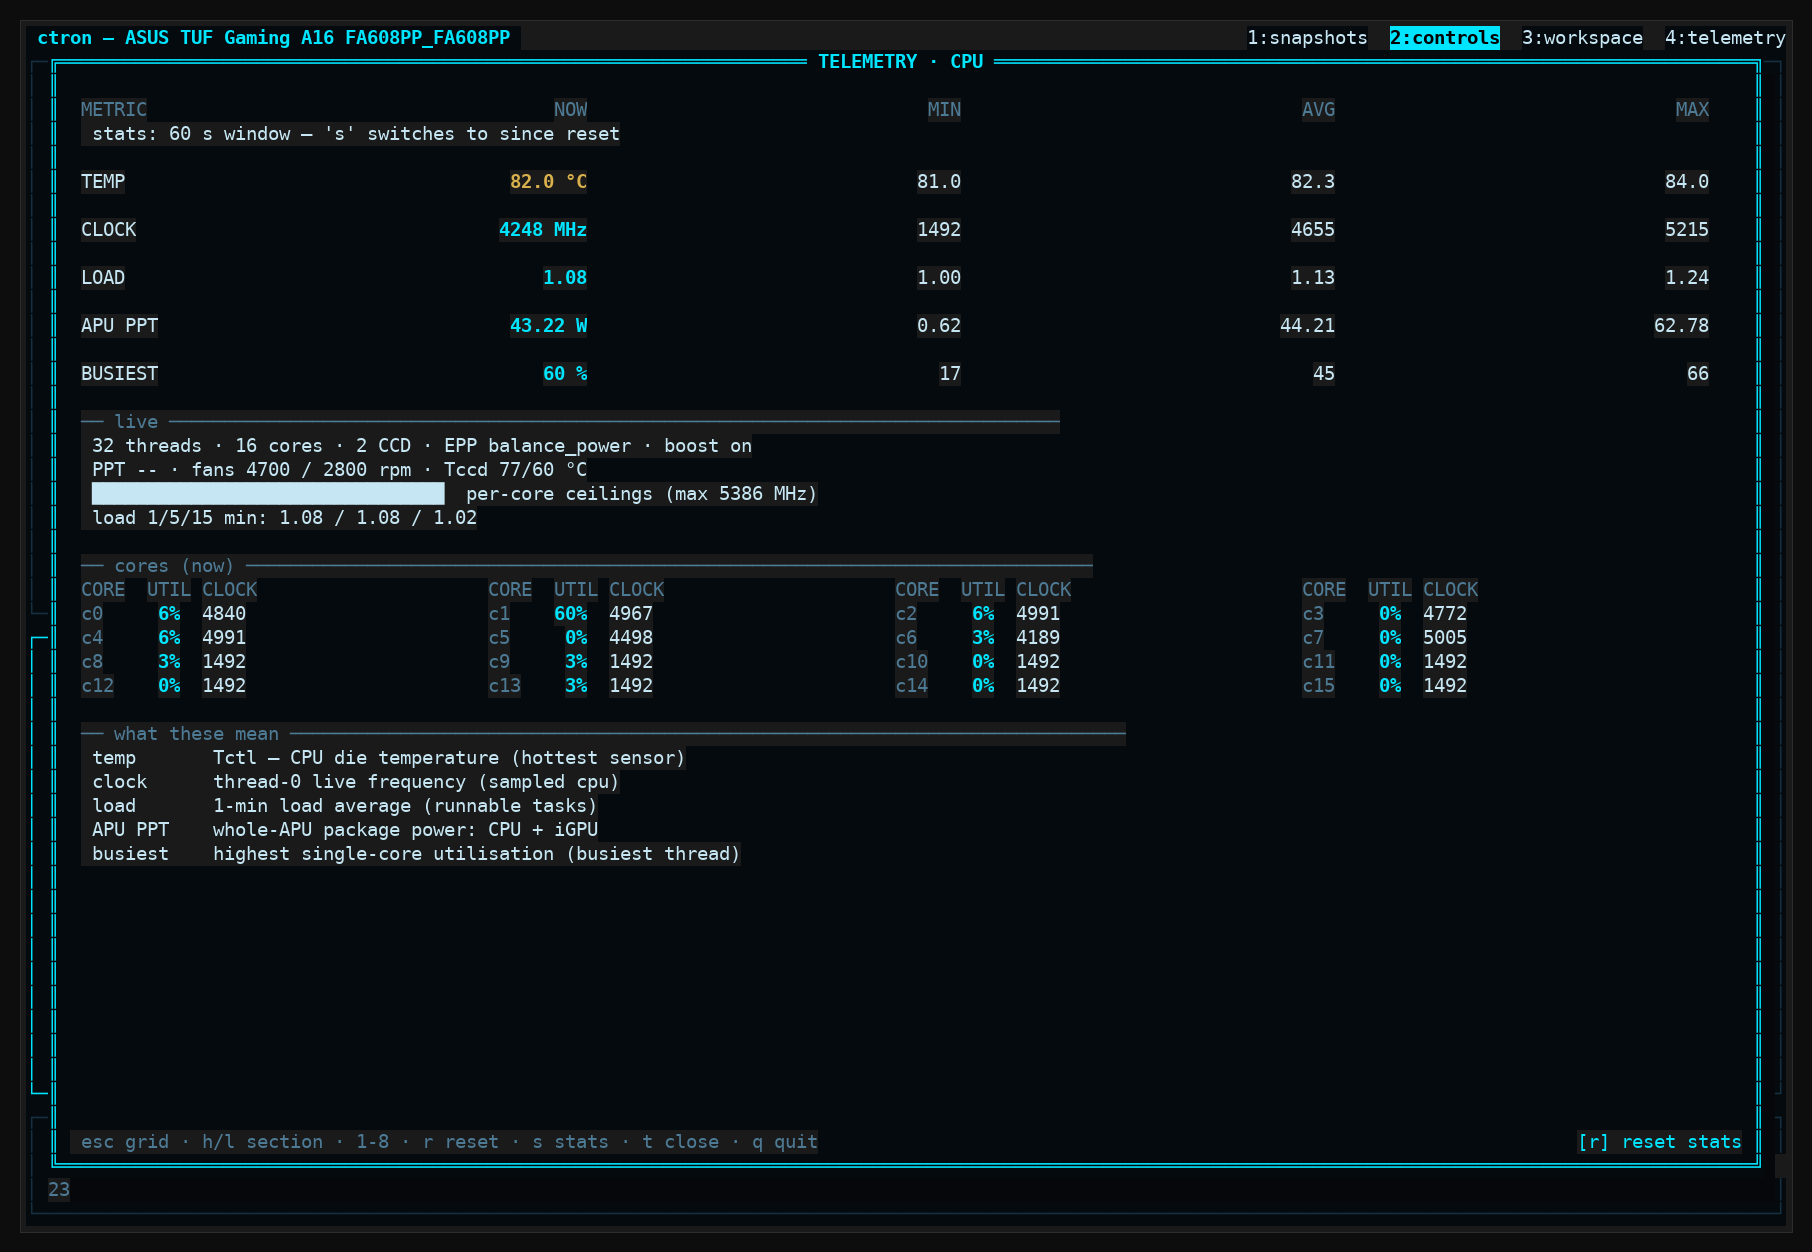
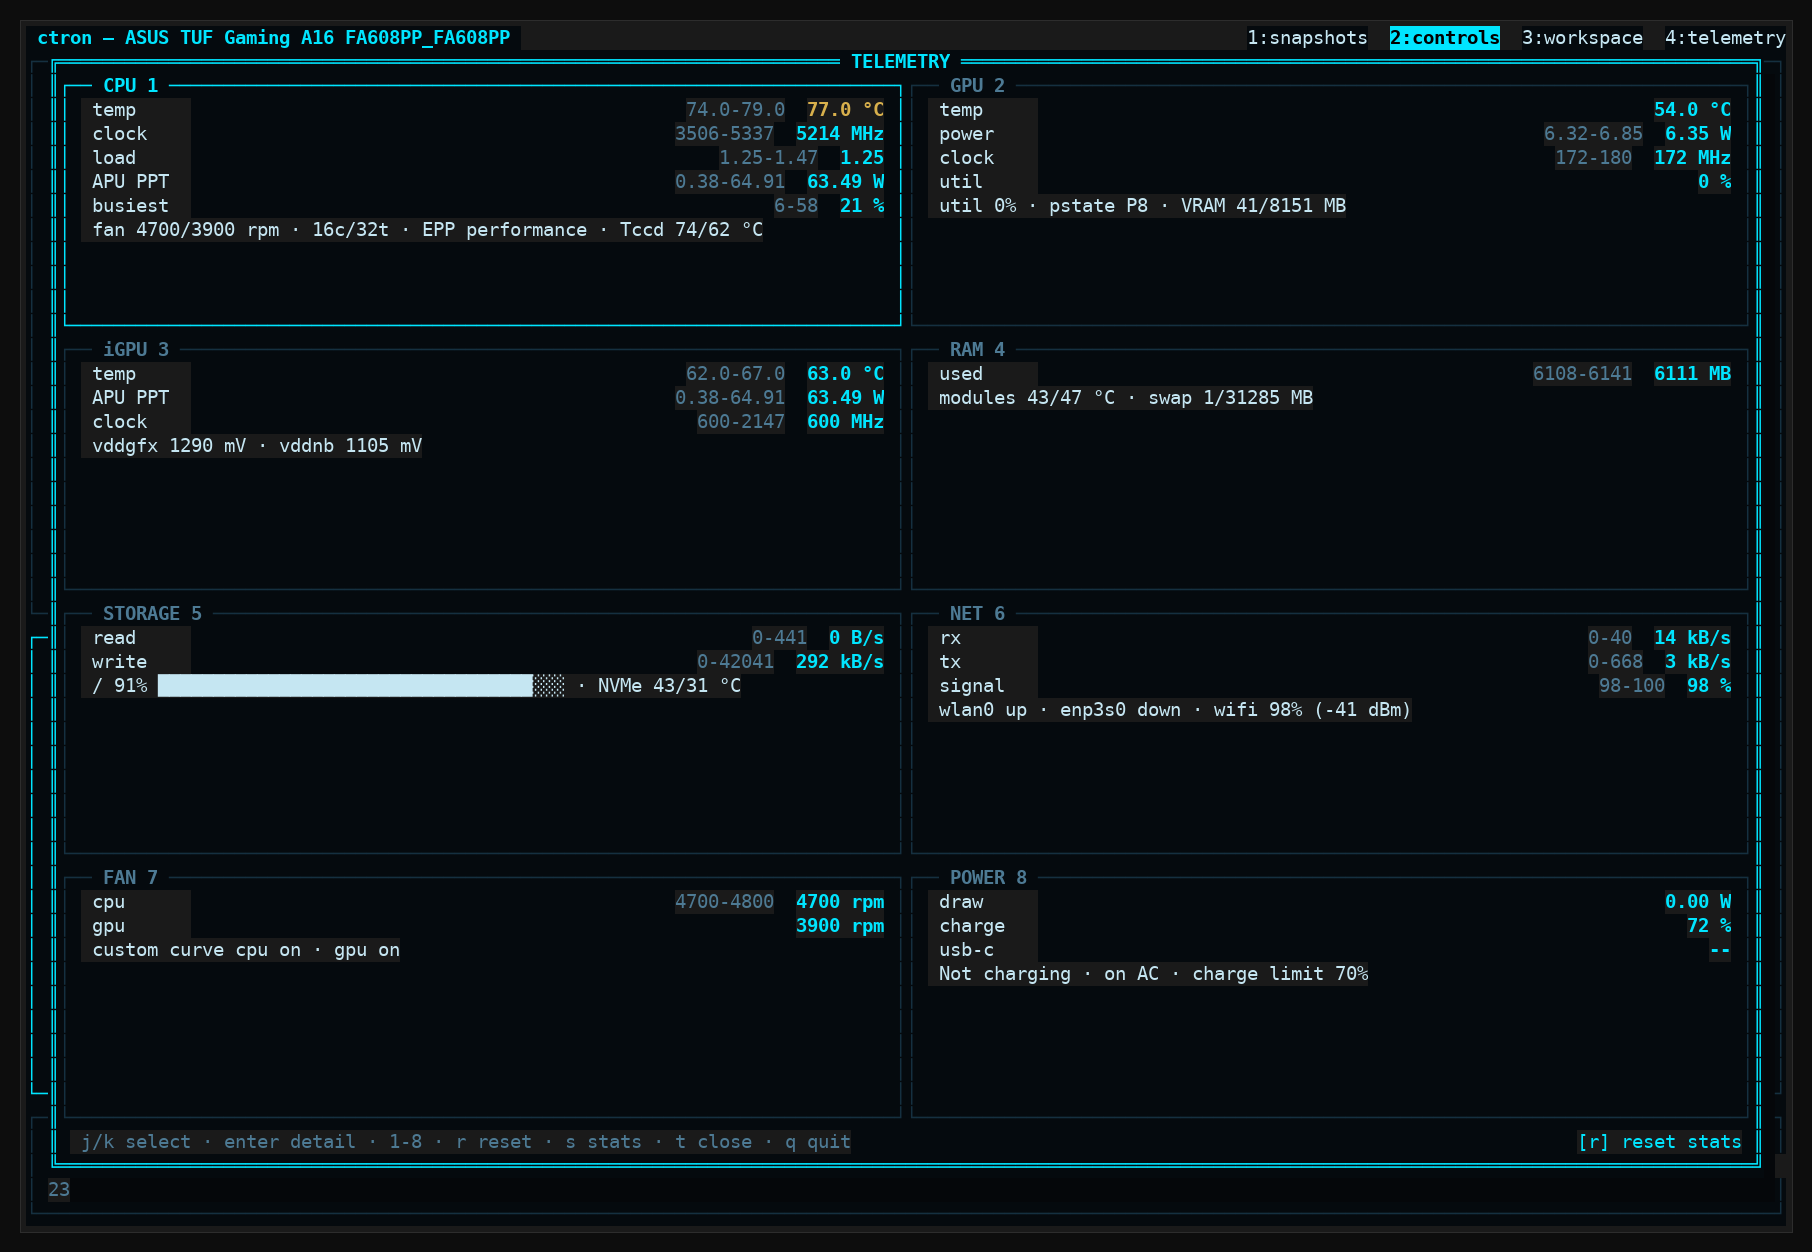
telem: per-core ceilings block bar -> numeric summary - user report: the one-block-per-thread ceiling bar in the CPU detail live block read as one solid rectangle - a single cell per thread is too small to tell the 8 block levels apart at real font sizes, and in the common all-threads-at-hw-max case

diff --git a/src/ui/panel_telem_full.c b/src/ui/panel_telem_full.c
@@ -755,27 +755,39 @@ static void detail_cpu(struct ncplane *n, const rect_t *r)
         snprintf(l1, sizeof l1, " PPT -- · fans %d / %d rpm%s",
                  hw->rpm_cpu, hw->rpm_gpu, cc);
 
-    /* per-core ceilings: one 8-level block per thread, scaled to the
-     * hardware max (a pinned core reads its ceiling, not live clock) */
-    char blk[HW_CPU_MAX * 3 + 8];
-    size_t wb = 0;
-    blk[wb++] = ' ';
-    for (int i = 0; i < hw->cpu_n && wb + 4 < sizeof blk; i++) {
+    /* per-core ceilings as a numeric summary: the old one-block-per-
+     * thread bar read as one solid rectangle at real font sizes (a
+     * single cell is too small to tell the 8 levels apart — user
+     * report), so the shape carried no information. The hw max rides
+     * along whenever the threads are not all sitting on it. */
+    int clo = 0, chi = 0, at_max = 0, seen = 0;
+    for (int i = 0; i < hw->cpu_n; i++) {
         int mhz = hw->cpu_mhz_core[hw->cpu_ids[i]];
-        if (mhz <= 0 || hw->cpu_mhz_max <= 0) {
-            blk[wb++] = '.';
+        if (mhz <= 0)
             continue;
-        }
-        double f = (double)mhz / (double)hw->cpu_mhz_max;
-        if (f > 1)
-            f = 1;
-        blk[wb++] = (char)0xE2;
-        blk[wb++] = (char)0x96;
-        blk[wb++] = (char)(0x81 + (int)(f * 7.999));
+        seen++;
+        if (clo == 0 || mhz < clo)
+            clo = mhz;
+        if (mhz > chi)
+            chi = mhz;
+        if (hw->cpu_mhz_max > 0 && mhz >= hw->cpu_mhz_max)
+            at_max++;
     }
-    blk[wb] = '\0';
-    snprintf(l2, sizeof l2, "%s  per-core ceilings (max %d MHz)",
-             blk, hw->cpu_mhz_max);
+    if (seen == 0)
+        snprintf(l2, sizeof l2, " per-core ceilings: --");
+    else if (clo == chi && (hw->cpu_mhz_max <= 0 || clo == hw->cpu_mhz_max))
+        snprintf(l2, sizeof l2, " per-core ceilings: all %d threads @ %d MHz",
+                 seen, clo);
+    else if (clo == chi)
+        snprintf(l2, sizeof l2,
+                 " per-core ceilings: all %d threads @ %d MHz (hw max %d)",
+                 seen, clo, hw->cpu_mhz_max);
+    else if (hw->cpu_mhz_max > 0)
+        snprintf(l2, sizeof l2,
+                 " per-core ceilings: %d-%d MHz · %d/%d @ hw max %d",
+                 clo, chi, at_max, seen, hw->cpu_mhz_max);
+    else
+        snprintf(l2, sizeof l2, " per-core ceilings: %d-%d MHz", clo, chi);
 
     /* 5/15-min load ride along the polled 1-min series (same source
      * line, parsed together) */

diff --git a/HANDOFF.md b/HANDOFF.md
@@ -1,6 +1,37 @@
 # Ctron Handoff
 
-Latest session — **2026-10-29 (18th round, CORRECTION: gpu_metrics
+Latest session — **2026-10-29 (19th round, per-core ceilings display
+fixed: block bar → numeric summary)**
+
+**GLM / Kerempkl / FA608PP** — user asked what the gauge left of
+"per-core ceilings" in the CPU detail shows, then named the real
+problem: it reads as one flat rectangle. Root cause: one
+single-cell block glyph (8 levels, U+2581..88) per thread — at real
+font sizes adjacent cells and neighbouring levels are
+indistinguishable, and in the common case (every thread at the hw
+max) it is literally a solid bar.
+
+- Fix follows the numbers-over-graphics doctrine (6a71073):
+  detail_cpu's live line is now a summary over the SAME
+  hw->cpu_mhz_core sweep — "per-core ceilings: all 32 threads @
+  5386 MHz" (uniform; "(hw max N)" appended when uniformly below
+  it, the quiet/2401 case), "per-core ceilings: 2401-5386 MHz ·
+  30/32 @ hw max 5386" (mixed ceilings), "--" (nothing read);
+  partial reads counted honestly (seen vs cpu_n).
+- Nothing else moved: the grid box never showed ceilings, the CORE
+  LIMITS editor and write layer still consume the same sweep,
+  HARDWARE.md EN/TR sensor map unchanged (still scaling_max_freq —
+  presentation only).
+- Live-verified the uniform branch on the real CPU detail page
+  (build/dump_cpu.py, one-off text dumper reusing
+  tui_screenshot's Session+Screen — wiped by make clean). The
+  mixed branch needs a profile flip (system side effect — not run
+  on the user's machine; plain snprintf branches).
+- Verified: 0 warnings, make test, full tuitest, live CPU-detail
+  dump, tui-telem.png re-shot (grid view, per CHANGELOG
+  precedent), install in the same breath.
+
+Before that **2026-10-29 (18th round, CORRECTION: gpu_metrics
 field is ACTIVITY, not watts — the APU split was wrong and is
 reverted)**
 

diff --git a/CHANGELOG.md b/CHANGELOG.md
@@ -1,5 +1,22 @@
 # Changelog
 
+## 2026-10-29 — telem: per-core ceilings block bar → numeric summary
+
+- User report: the one-block-per-thread ceiling bar in the CPU
+  detail live block read as one solid rectangle — a single cell per
+  thread is too small to tell the 8 block levels apart at real font
+  sizes, so the shape carried no information.
+- Replaced with a readable summary over the same scaling_max_freq
+  sweep (source unchanged): "all 32 threads @ 5386 MHz" when uniform
+  ("hw max N" appended when the threads sit uniformly below it —
+  quiet's 2401 lock), "2401-5386 MHz · 30/32 @ hw max 5386" when
+  mixed, "--" when nothing reads; partial reads counted honestly.
+- Grid box untouched (it never showed ceilings); HARDWARE.md sensor
+  map unchanged (still scaling_max_freq — presentation only).
+- Verified: 0 warnings, make test, full tuitest, live CPU-detail
+  dump ("all 32 threads @ 5386 MHz"), tui-telem.png re-shot,
+  install in the same breath.
+
 ## 2026-10-29 — correction: gpu_metrics gfx field is ACTIVITY — APU split reverted
 
 - The user caught two contradictions in the split feature shipped
